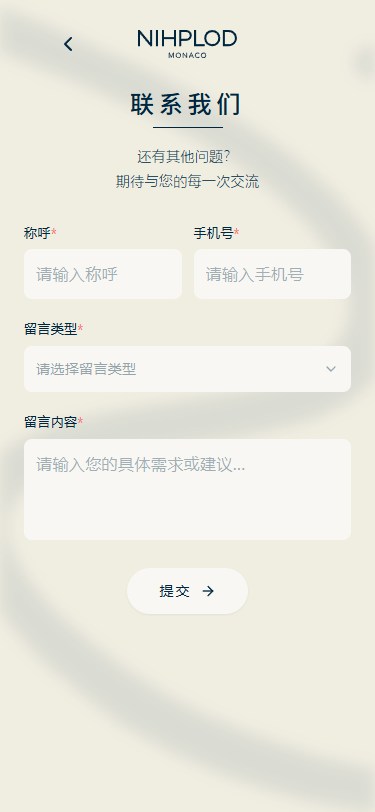
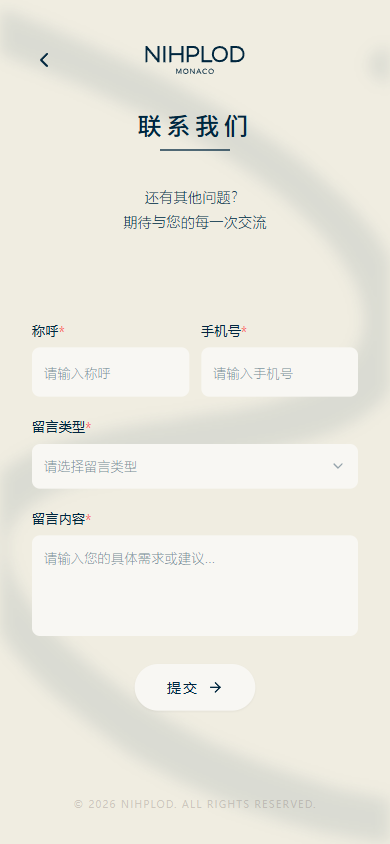
1

diff --git a/src/app/globals.css b/src/app/globals.css
@@ -1082,6 +1082,14 @@
 
 /* 响应式调整 - 移动端减少光晕数量 */
 @media (max-width: 768px) {
+  .kinetic-logo {
+    top: -44px;
+  }
+
+  .kinetic-logo-image {
+    height: 32px;
+  }
+
   .kinetic-glow-3 {
     display: none;
   }
@@ -1124,6 +1132,27 @@
 /* ========== Bento Grid 便当盒卡片布局 ========== */
 
 /* 网格容器 */
+.kinetic-logo {
+  position: absolute;
+  top: -52px;
+  left: 50%;
+  transform: translateX(-50%);
+  z-index: 10;
+  pointer-events: auto;
+  opacity: 0.85;
+  transition: opacity 0.4s ease;
+}
+
+.kinetic-logo:hover {
+  opacity: 1;
+}
+
+.kinetic-logo-image {
+  height: 40px;
+  width: auto;
+  filter: drop-shadow(0 2px 4px rgba(0, 0, 0, 0.1));
+}
+
 .kinetic-container {
   position: absolute;
   top: 46%;

diff --git a/src/components/website/KineticBackground.tsx b/src/components/website/KineticBackground.tsx
@@ -118,6 +118,16 @@ export function KineticBackground() {
             </div>
 
             <div ref={containerRef} className="kinetic-container">
+                <Link href="/" className="kinetic-logo">
+                    <Image
+                        src="/images/NIHPLOD-logo.svg"
+                        alt="NIHPLOD"
+                        width={160}
+                        height={40}
+                        className="kinetic-logo-image"
+                        priority
+                    />
+                </Link>
                 {/* 左侧大卡片 - 跨两行 */}
                 <div
                     ref={(el) => addCellRef(el, 0)}
